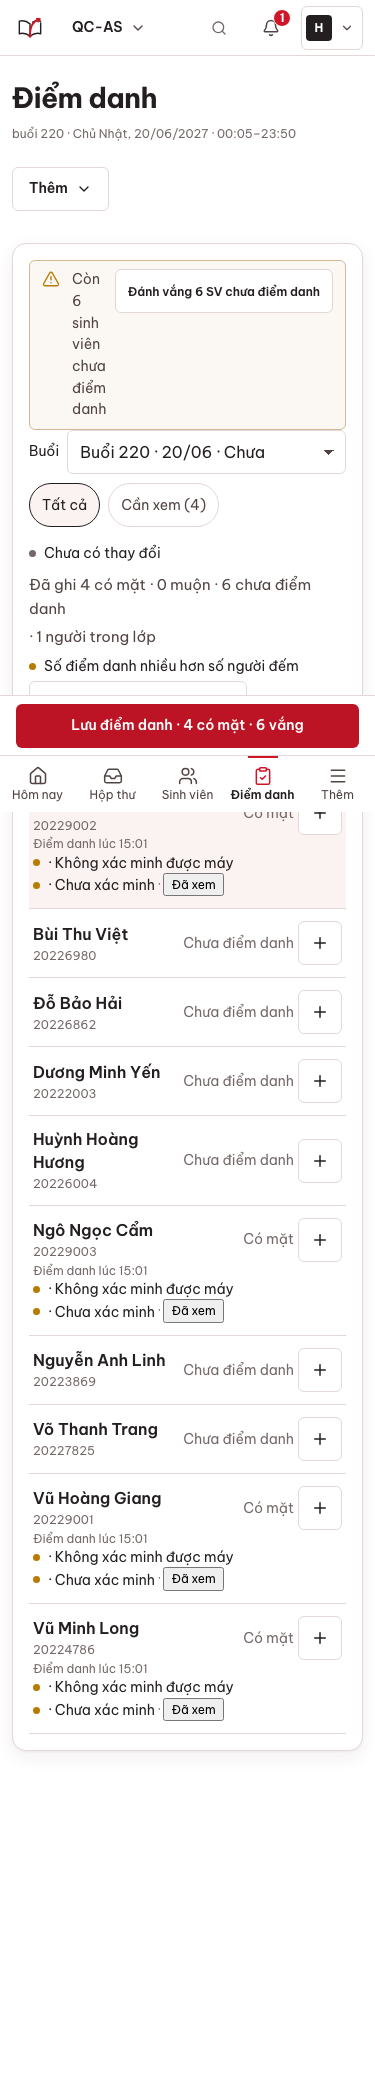
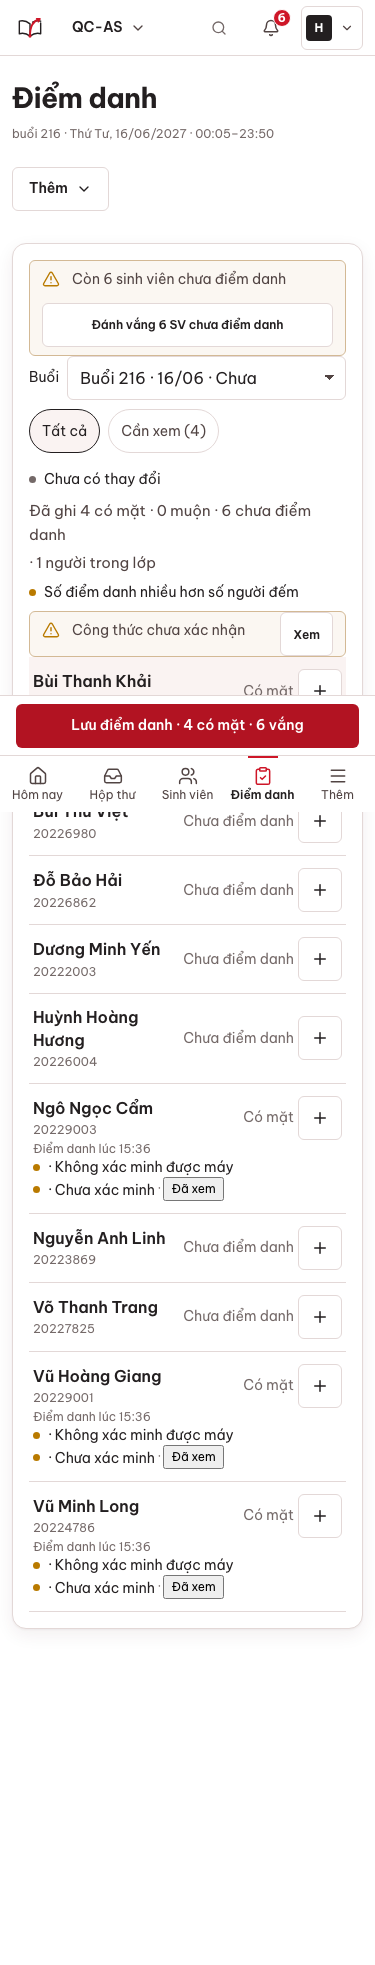
10.8 QC đợt 4 (@f1b8602d): D-AS-05/06 + một nút chính kiểm lại ĐẠT, qc-as-ui 36/36, hồi quy; chốt summary

diff --git a/frontend/e2e/qc-as-ui.spec.ts b/frontend/e2e/qc-as-ui.spec.ts
@@ -80,7 +80,11 @@ for (const [w, h, mobile] of [[1440, 900, false], [375, 812, true]] as const) {
     await page.getByRole("button", { name: /Lưu điểm danh/ }).last().click();
     const note = page.getByText(/Còn \d+ sinh viên chưa điểm danh/); await note.waitFor({ timeout: 10_000 });
     const nUn = Number((await note.innerText()).match(/\d+/)![0]);
-    check(`TC-AS05-10c (${tag}) «Lưu điểm danh» khi còn SV chưa điểm danh → 422 CHECKIN_UNRESOLVED hiện «Còn N sinh viên chưa điểm danh» + nút «Đánh vắng N SV…»`, nUn > 0 && (await page.getByRole("button", { name: new RegExp(`Đánh vắng ${nUn} SV chưa điểm danh`) }).count()) >= 1, `N=${nUn}; số nút «Đánh vắng N SV…» cùng lúc: ${await page.getByRole("button", { name: new RegExp(`Đánh vắng ${nUn} SV chưa điểm danh`) }).count()}`);
+    check(`TC-AS05-10c (${tag}) «Lưu điểm danh» khi còn SV chưa điểm danh → 422 CHECKIN_UNRESOLVED hiện «Còn N sinh viên chưa điểm danh» + nút «Đánh vắng N SV…»`, nUn > 0 && (await page.getByRole("button", { name: new RegExp(`Đánh vắng ${nUn} SV chưa điểm danh`) }).count()) === 1, `N=${nUn}; số nút «Đánh vắng N SV…» cùng lúc: ${await page.getByRole("button", { name: new RegExp(`Đánh vắng ${nUn} SV chưa điểm danh`) }).count()}`);
+    const bbn = await note.boundingBox(); const lh = await note.evaluate((e) => parseFloat(getComputedStyle(e).lineHeight) || 20);
+    check(`TC-AS08-UX1 (${tag}) D-AS-05: «Còn N sinh viên chưa điểm danh» không xuống dòng từng chữ (≤ 2 dòng, rộng ≥ 150 px)`, !!bbn && bbn.width >= 150 && bbn.height <= lh * 2.5, JSON.stringify(bbn));
+    const prim = await page.getByRole("button", { name: /^(Mở điểm danh|Lưu điểm danh)/ }).allInnerTexts();
+    check(`TC-AS08-UX2 (${tag}) sau đóng, đã có vòng: không còn nút «Mở điểm danh» cạnh «Mở vòng 2»; chỉ một «Lưu điểm danh» chính`, !prim.some((x) => x.trim() === "Mở điểm danh"), prim.join(" | "));
     await page.screenshot({ path: `${OUT}/att-unresolved-${tag}.png`, fullPage: true });
     // ConfirmIrreversible
     await page.getByRole("button", { name: new RegExp(`Đánh vắng ${nUn} SV chưa điểm danh`) }).first().click();

diff --git a/docs/sprints/10.8/qc/scripts/as_k.py b/docs/sprints/10.8/qc/scripts/as_k.py
@@ -1,0 +1,14 @@
+# Kiểm lại D-AS-06: tắt self_checkin giữa buổi không chặn cửa sổ đang mở
+from asl import *
+S = st(); C = S["cid"]
+policy(C, rotate_seconds=5, late_after_min=10)
+s, w, d = neww(C); t = tokenof(d)
+policy(C, self_checkin=False)
+c1, j1, _ = checkin("sv.gioi", C, {"token": t}); c2, j2, _ = checkin("sv.kha", C, {"code": display(C, s, w)[1]["short_code"]}); dd = display(C, s, w)
+ok("TC-AS01-10a (kiểm lại D-AS-06) tắt self_checkin khi cửa sổ đang mở: SV vẫn điểm danh được (token và mã ngắn → 201) tới khi đóng; rotate vẫn ghim 5 s", c1 == 201 and c2 == 201 and dd[0] == 200 and dd[1]["rotate_seconds"] == 5, f"{c1} {c2} {dd[0]}")
+c, j, _ = openw(C, fresh_session(C)); ok("TC-AS01-10b (kiểm lại) cửa sổ MỚI khi tắt → vẫn 409 SELF_CHECKIN_DISABLED", c == 409 and j.get("code") == "SELF_CHECKIN_DISABLED", f"{c} {j.get('code')}")
+close(C, w); time.sleep(1)
+s3, _, _ = None, None, None
+c3, j3, _ = checkin("sv.nguyco", C, {"token": t}); ok("TC-AS01-10d sau khi ĐÓNG cửa sổ (lớp vẫn tắt) → 409 (WINDOW_CLOSED hoặc SELF_CHECKIN_DISABLED), không 201", c3 == 409, f"{c3} {j3.get('code')}")
+c4, j4, _ = checkin("sv.nguyco", S["cid2"], {"token": t}); ok("TC-AS01-10e lớp khác dùng token này → không 201", c4 != 201, str(c4))
+policy(C, rotate_seconds=5, late_after_min=10)

diff --git a/docs/sprints/10.8/qc/summary.md b/docs/sprints/10.8/qc/summary.md
@@ -1,18 +1,18 @@
 # QC sprint 10.8 — FEAT-attendance-selfcheck (điểm danh tự phục vụ): tổng kết
 
-Bản kiểm: ep-qc @`a1c7ab30` (đợt 1, L1–L5) → @`b54d020e` (đợt 2: L7, sửa D-AS-01…03) → đợt 3 (cùng bản dựng @`b54d020e`): tương tác `/attendance` + TC biên. Dev sửa D-AS-04 @`089b9d01` (QC đã kiểm tĩnh). Migration `00024` chạy trên DB đã có dữ liệu (goose v24, giữ DB). Không LLM, không tải nặng (k6 chờ bench). Chi tiết lỗi: `defects.md`; TC: `tc-*.md`; kết quả từng TC: `scripts/results-as.jsonl`, `results-ui*.jsonl`; ảnh: `shots/`.
+Bản kiểm: ep-qc @`a1c7ab30` (đợt 1, L1–L5) → @`b54d020e` (đợt 2: L7, sửa D-AS-01…03) → đợt 3 (@`b54d020e`): tương tác `/attendance` + TC biên → đợt 4 (@`f1b8602d`, ep-qc dựng lại frontend + gateway): kiểm lại D-AS-05/06 + một nút chính, chạy lại `qc-as-ui.spec` 1440/375 (36/36 PASS), hồi quy đường điểm danh. D-AS-04 dev sửa @`089b9d01` (QC kiểm tĩnh). Migration `00024` chạy trên DB đã có dữ liệu (goose v24, giữ DB). Không LLM, không tải nặng (k6 chờ bench). Chi tiết lỗi: `defects.md`; TC: `tc-*.md`; kết quả từng TC: `scripts/results-as.jsonl`, `results-ui*.jsonl`; ảnh: `shots/`.
 
 ## Kết luận theo story (chỉ PASS / FAIL; phần không kiểm được ghi riêng)
 | Story | Kết luận | Căn cứ chính |
 | --- | --- | --- |
-| US-AS-01 chính sách lớp | **FAIL (AC5, D-AS-06)** — các AC khác PASS | tắt `self_checkin` khi cửa sổ đang mở → `409 SELF_CHECKIN_DISABLED` cho SV (US: «vẫn nhận lượt tới khi đóng»). 13 ca sai 422, biên, `version` 409, PUT song song, phân quyền, SV chỉ thấy 3 trường, audit không toạ độ, UI cài đặt 1440/375 |
+| US-AS-01 chính sách lớp | **PASS** (sau sửa D-AS-06) | tắt `self_checkin` giữa buổi: cửa sổ đang mở vẫn nhận token + mã ngắn (201), rotate vẫn ghim, cửa sổ mới / sau khi đóng → 409. 13 ca sai 422, biên, `version` 409, PUT song song, phân quyền, SV chỉ thấy 3 trường, audit không toạ độ, UI cài đặt 1440/375 |
 | US-AS-02 cửa sổ | **PASS** | mở / idempotent / `WINDOW_ALREADY_OPEN` / đua 6 vòng / 3 vòng + `ROUND_LIMIT` / display 429 / tự đóng 86 s / `COURSE_ARCHIVED` |
 | US-AS-03 điểm danh (token + mã ngắn) | **PASS** | MAC / hết hạn / thứ tự kiểm / 5 lần sai → 429 / 10 lượt/phút / idempotent song song / vòng 2 / phản hồi giống nhau; `CHECKIN_TOKEN_*` không refresh (UI + app) |
 | US-AS-04 cờ + mức tin cậy | **PASS** (sau sửa D-AS-01) | `WEB_KEY` r‖s + DER, `NO_DEVICE_KEY`, `DEVICE_UNTRUSTED`, `DEVICE_NEW`, `DEVICE_SHARED` (đua 4/4), `NOT_APP`, nhãn tiếng Việt |
 | US-AS-05 đóng + đánh vắng | **PASS** | `PRESENT`/`LATE`, dòng tay giữ, đóng lần 2 không ghi gì, `absent-unchecked`, `CHECKIN_UNRESOLVED` |
 | US-AS-06 danh sách lượt + Hôm nay | **PASS** | cursor, bộ lọc, `clear-flags` idempotent + audit, `CHECKIN_REVIEW` (≤ 7 ngày, biến mất khi hết cờ, SV không thấy) |
 | US-AS-07 vòng 2, số đầu người, gọi tên | **PASS** | `RECHECK_MISS` (không nhân đôi, không đổi `attendance_records`), `over_headcount`, `spot-check` |
-| US-AS-08 `/attendance` + màn chiếu | **PASS** (D-AS-05 Thấp mở) | tương tác Staff chạy thật 1440 + 375 (mở điểm danh → màn chiếu, đếm k/n, số đầu người tự lưu, `over_headcount`, Drawer gọi ngẫu nhiên, đóng, `CHECKIN_UNRESOLVED`, hộp xác nhận «Đánh vắng N sinh viên?», mở vòng 2, axe 0, không tràn ngang: 34/34); màn chiếu 1920×1080 / 1280×720 (14 / 8 / 4 vmin, QR 1016 px giải mã được bằng jsQR), đếm ≤ 14 s, mất kết nối P-108-7, đóng, axe 0 |
+| US-AS-08 `/attendance` + màn chiếu | **PASS** (D-AS-05 đã sửa; sau đóng chỉ một nút chính, «Đánh vắng N SV» một chỗ) | tương tác Staff chạy thật 1440 + 375 (mở điểm danh → màn chiếu, đếm k/n, số đầu người tự lưu, `over_headcount`, Drawer gọi ngẫu nhiên, đóng, `CHECKIN_UNRESOLVED`, hộp xác nhận «Đánh vắng N sinh viên?», mở vòng 2, axe 0, không tràn ngang: 34/34); màn chiếu 1920×1080 / 1280×720 (14 / 8 / 4 vmin, QR 1016 px giải mã được bằng jsQR), đếm ≤ 14 s, mất kết nối P-108-7, đóng, axe 0 |
 | US-AS-09 `/checkin` web | **PASS** | 375 px không tràn, token không vào request / `Referer` / storage, đăng nhập rồi quay lại, hết hạn, nhập mã + khoá 429, CSP, axe 0. KHÔNG KIỂM ĐƯỢC: iPhone Safari / PWA thật (TC-AS09-34) |
 | US-AS-10 vị trí + mạng trường | **PASS** | haversine sai số 0 m (8 điểm), biên 249,5 m, `GEO_WEAK` 101, `GEO_DENIED` ×2, CIDR, tắt giữa buổi, không cột toạ độ / IP, log sạch; emulator: trong vùng / ngoài vùng 5 302 m / từ chối quyền |
 | US-AS-11 app Android | **PASS** (phần kiểm được) | cấu hình tĩnh (cleartext off, `allowNavigation`, không `autoVerify`, không khoá trong git); emulator API 35: WebView có `BarcodeDetector`/`qr_code` → nút «Quét mã điểm danh», từ chối camera → «Chưa cấp quyền camera.», `ErrorPath` «Thử lại», điểm danh mức 2 (P-108-5), `NOT_APP` (P-108-6). KHÔNG KIỂM ĐƯỢC: máy thật (mức 3 thật, `boot_verified`, `GEO_MOCK` thật), quét QR thật bằng camera ảo. D-AS-04 đã được dev sửa (@`089b9d01`) |
@@ -27,10 +27,10 @@ Bản kiểm: ep-qc @`a1c7ab30` (đợt 1, L1–L5) → @`b54d020e` (đợt 2: L
 | D-AS-02 trường lạ trong thân → 422 (spec nói «bỏ qua») | Thấp | **Đóng** (BA vá spec P-108-13) |
 | D-AS-03 openapi `attestation_chain` 1–10 vs thực tế 2–6 | Thấp | **Đóng** |
 | D-AS-04 `prepare.mjs`/README cho `http://localhost…` nhưng `cleartext:false` → APK trắng | Thấp | **Đóng** (dev @`089b9d01`; QC kiểm lại: `prepare.mjs` từ chối http, https tunnel OK) |
-| **D-AS-06** tắt `self_checkin` giữa buổi → SV bị `409 SELF_CHECKIN_DISABLED` dù cửa sổ đang mở (US-AS-01 AC5) | **Trung bình** | **Mở** |
-| D-AS-05 (`/attendance` 375 px) «Còn N sinh viên chưa điểm danh» xuống dòng từng chữ | Thấp | Mở |
+| **D-AS-06** tắt `self_checkin` giữa buổi → SV bị `409 SELF_CHECKIN_DISABLED` dù cửa sổ đang mở (US-AS-01 AC5) | **Trung bình** | **Đóng** (dev @`0cec750a`; kiểm lại: token + mã ngắn 201, mở mới 409, sau đóng 409) |
+| D-AS-05 (`/attendance` 375 px) «Còn N sinh viên chưa điểm danh» xuống dòng từng chữ | Thấp | **Đóng** (dev @`1ce5619b`; đo: 261 × 22 px ở 375, 839 × 22 px ở 1440) |
 
-Ghi nhận (không lỗi): (1) `/me/today` cache ~15–29 s sau thay đổi trực tiếp DB (chỉ lộ khi dùng fixture SQL); (2) hộp xin quyền vị trí lần đầu có thể làm token hết hạn (≤ 2 bước) → SV quét lại (đo: emulator `rotate=5 s`); (3) `qr_url` dùng `APP_PUBLIC_URL` (ep-qc mặc định `https://localhost`) — phải đặt đúng host/tunnel khi chạy máy thật; (4) `Referrer-Policy` của `/checkin` không đặt (SRS không yêu cầu; `#fragment` không vào `Referer`, đã đo); (5) emulator không gắn `GEO_MOCK` cho vị trí đặt bằng `adb emu geo fix`; (6) `TestAttestKeyMismatch` (tên trong P-108-4) không có — ca P-108-4 nằm trong `TestAttestRejects`; (7) mọi lượt trong app mang `channel=WEB` (app không gửi `app.version`).
+Ghi nhận (không lỗi; mục trùng nút ở `/attendance` đã được dev sửa @`f1b8602d`, QC kiểm lại ĐẠT): (1) `/me/today` cache ~15–29 s sau thay đổi trực tiếp DB (chỉ lộ khi dùng fixture SQL); (2) hộp xin quyền vị trí lần đầu có thể làm token hết hạn (≤ 2 bước) → SV quét lại (đo: emulator `rotate=5 s`); (3) `qr_url` dùng `APP_PUBLIC_URL` (ep-qc mặc định `https://localhost`) — phải đặt đúng host/tunnel khi chạy máy thật; (4) `Referrer-Policy` của `/checkin` không đặt (SRS không yêu cầu; `#fragment` không vào `Referer`, đã đo); (5) emulator không gắn `GEO_MOCK` cho vị trí đặt bằng `adb emu geo fix`; (6) `TestAttestKeyMismatch` (tên trong P-108-4) không có — ca P-108-4 nằm trong `TestAttestRejects`; (7) mọi lượt trong app mang `channel=WEB` (app không gửi `app.version`).
 
 ## Chưa chạy / KHÔNG KIỂM ĐƯỢC (không tính FAIL)
 - Máy Android thật (P-108-12): AC-5, 5b, 6, 9b, 11 (thật), 13, 17, 19 của `android-checklist.md`; quét QR thật qua camera trong app (AC-3); AC-7b.
@@ -51,3 +51,6 @@ Cách đo: ep-qc dựng lại sang DB `edupilot_t1` (POSTGRES_DB / DATABASE_URL 
 | burst | 200 lượt dồn 5 s | **5,38** / 6,41 / 12,59 ms | 9,66 ms | 12,59 ms | 0 % (0/601) | 200 (buổi 2) | **PASS** |
 
 Số của dev2 (native, không PgBouncer): 15,6 / 9,8 ms — cùng bậc. Nhật ký: `scripts/k6-spread.log|json`, `k6-burst.log|json`. Ghi chú: k6 chạy trên host nên có phí mạng loopback; đường Caddy TLS có tính vào số đo.
+
+## Chốt (đợt 4)
+Lỗi 10.8: D-AS-01…06 **tất cả đóng**, không lỗi mở. 14/14 story PASS ở phần kiểm được. Chưa kiểm được (không tính FAIL): máy Android thật, iPhone/PWA, chỉ mục `EXPLAIN` ở quy mô T1, 120 lượt thật, lô purge 2.500 hàng, kiểm tra Lighthouse `/checkin` (CI). Điều kiện merge theo QC: không còn.
